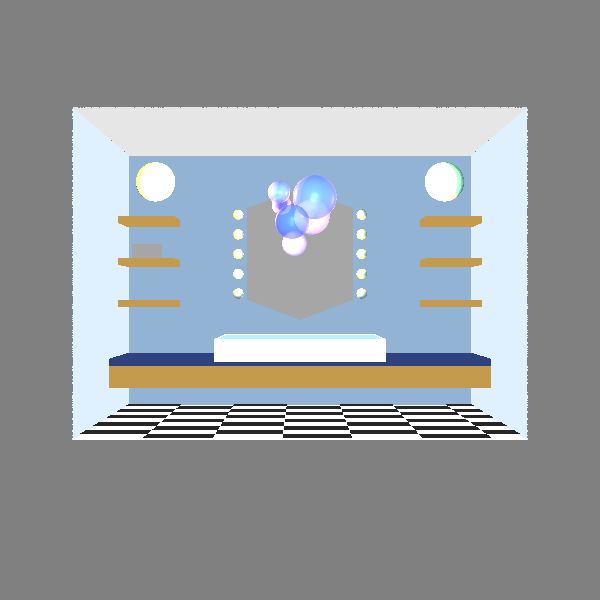
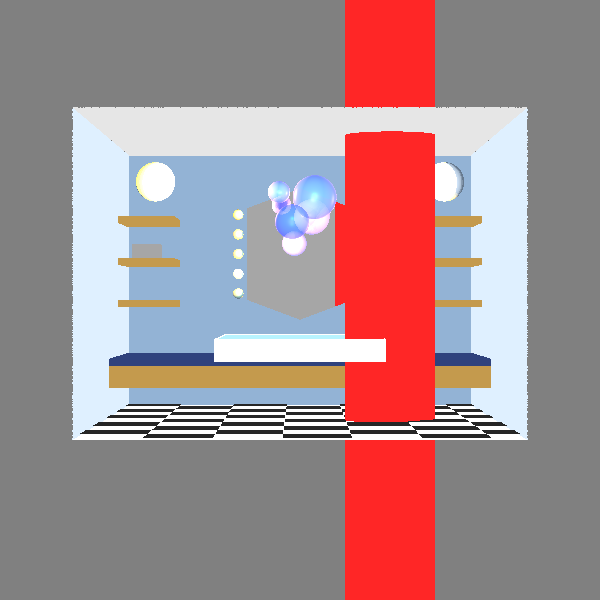
cylinder working finally

Changed region(s): [[0.54, 0.21, 0.78, 1.0], [0.57, 0.0, 0.75, 0.18]]

diff --git a/src/geometries/Tube.java b/src/geometries/Tube.java
@@ -1,64 +1,118 @@
 package geometries;
 
-import primitives.Point;
-import primitives.Ray;
-import primitives.Vector;
+import primitives.*;
 
+import java.util.ArrayList;
 import java.util.List;
 
+import static primitives.Util.alignZero;
+import static primitives.Util.isZero;
+
 /**
- * The Tube class represents an infinite cylinder (a tube) in Cartesian coordinate system.
- * It is defined by its axis ray (the ray that passes through the center of the tube) and radius.
+ * a class that represents a tube in the space by the axis of it's center. and it's radius
  */
-public class Tube extends RadialGeometry {
+public class Tube extends Geometry{
+    protected Ray axisRay;
+    protected double radius;
 
-    final protected Ray axisRay; // The axis ray of the tube
-
-    /**
-     * Constructs a tube with the specified axis ray.
-     *
-     * @param axisRay The axis ray of the tube.
-     * @param radius  The radius of the tube.
-     */
+    //region constructor ray and a radius
     public Tube(Ray axisRay, double radius) {
-        super(radius);
-        this.axisRay = axisRay; // Sets the axis ray of the tube
+        this.axisRay = axisRay;
+        this.radius = radius;
+    }
+    //endregion
+
+    //region toString Override
+    /**
+     * format: "Tube { axisRay=  Ray { p0 = Point : xyz = (x, y, z), dir = Vector : xyz = (x, y, z) }, radius= radius}"
+     */
+    @Override
+    public String toString() {
+        return "Tube{" +
+                "axisRay=" + axisRay +
+                ", radius=" + radius +
+                '}';
+    }
+    //endregion
+
+    //region getNormal function
+    @Override
+    public Vector getNormal(Point point) {
+        // projection of p0p vector on the axisRay
+        double t = axisRay.getDir().dotProduct(point.subtract(axisRay.getP0()));
+
+        Point projectionPointOfP = axisRay.getP0();
+        if (t != 0) {
+            projectionPointOfP = axisRay.getPoint(t);
+        }
+
+        return point.subtract(projectionPointOfP).normalize();
+    }
+    //endregion
+
+    //region findGeoIntersectionsHelper
+    @Override
+    public List<GeoPoint> findGeoIntersectionsHelper(Ray ray, double maxDistance) {
+        Point o = ray.getP0();
+        Vector d = ray.getDir();
+
+        // vectors that span a space with the axis ray
+        Vector local_z = axisRay.getDir().normalize();
+        Vector local_x;
+        try{
+            local_x = d.crossProduct(local_z).normalize();
+        } catch (IllegalArgumentException x){ // ray.dir == axisRay.dir
+            return null;
+        }
+        Vector local_y = local_z.crossProduct(local_x).normalize();
+
+        Vector w = o.subtract(axisRay.getP0());
+
+        // projection of o and d on all 3 spanning vectors
+        Vector o_local = new Vector(w.dotProduct(local_x), w.dotProduct(local_y), w.dotProduct(local_z));
+        Vector d_local = new Vector(d.dotProduct(local_x), d.dotProduct(local_y), d.dotProduct(local_z));
+
+        // parameters for the root formula
+        double a = d_local.getY() * d_local.getY();
+        double b = 2 * d_local.getY() * o_local.getY();
+        double c = o_local.getY() * o_local.getY() + o_local.getX() * o_local.getX() - radius * radius;
+
+
+        if (a == 0) {   // ray is parallel to axis ray - check the bases!!
+            return null;
+        }
+
+        // root parameters
+        double e = b * b - 4 * a * c;
+
+        // complex solution - what does it mean??
+        if (e < 0) {
+            return null;
+        }
+        e = Math.sqrt(e);
+
+        List<GeoPoint> pointList = new ArrayList<>();
+        double t1 = (-b - e) / (2 * a);
+        double t2 = (-b + e) / (2 * a);
+
+        if (alignZero(t1) > 0) {
+            pointList.add(new GeoPoint(this , ray.getPoint(t1)));
+        }
+        if (alignZero(t2) > 0) {
+            pointList.add(new GeoPoint(this , ray.getPoint(t2)));
+        }
+
+        if(pointList.size() == 0)
+            return null;
+        return pointList;
     }
 
-    /**
-     * Returns the axis ray of the tube.
-     *
-     * @return The axis ray of the tube.
-     */
     public Ray getAxisRay() {
         return axisRay;
     }
 
-    /**
-     * Returns the normal vector to the tube at the specified point.
-     *
-     * @param point The point on the tube to get the normal vector at.
-     * @return The normal vector to the tube at the specified point.
-     */
-    @Override
-    public Vector getNormal(Point point) {
-        Vector u = point.subtract(axisRay.getP0());
-        double t = axisRay.getDir().dotProduct(u);
-        if (t == 0)
-            return u;
-        Point o = axisRay.getP0().add(axisRay.getDir().scale(t));
-        return point.subtract(o);
+    public double getRadius() {
+        return radius;
     }
-
-    /**
-     * Finds the intersections between the tube and a given ray.
-     *
-     * @param ray         The ray to intersect with the tube.
-     * @param maxDistance The maximum distance to check for intersections.
-     * @return A list of GeoPoint objects representing the intersections between the tube and the ray.
-     */
-    @Override
-    protected List<GeoPoint> findGeoIntersectionsHelper(Ray ray, double maxDistance) {
-        return null;
-    }
+    //endregion
 }

diff --git a/src/geometries/Cylinder.java b/src/geometries/Cylinder.java
@@ -1,94 +1,67 @@
 package geometries;
 
-import primitives.Point;
 import primitives.Ray;
 import primitives.Vector;
+import primitives.Point;
 
-import java.util.ArrayList;
-import java.util.List;
-
-import static primitives.Util.alignZero;
+import static primitives.Util.*;
 
 /**
- *A class that implements a cylinder, it is a finite pipe and therefore has a height.
- * The class inherits from Tube.
+ * The Cylinder class represents a cylinder in 3D space, which is a subclass of the Tube class.
+ *
+ * @author Maayan Amar
  */
 public class Cylinder extends Tube {
+    /**
+     * The height of the cylinder.
+     */
+    private final double height;
 
     /**
-     * height of the cylinder
+     * Constructs a new cylinder with the given height, axisRay, and radius.
+     *
+     * @param height  The height of the cylinder.
+     * @param axisRay The axisRay of the cylinder.
+     * @param radius  The radius of the cylinder.
      */
-    final private double height;
+    public Cylinder(double height, Ray axisRay, double radius) {
 
-
-    /**
-     * ctr for Cylinder
-     * @param radius
-     * @param axisRay
-     * @param height
-     */
-    public Cylinder(double radius, Ray axisRay, double height) {
-        super( axisRay,radius);
+        super(axisRay, radius);
         this.height = height;
     }
 
     /**
-     * get the height of the Cylinder
-     * @return
+     * Returns the height of the cylinder.
+     *
+     * @return The height of the cylinder.
      */
     public double getHeight() {
         return height;
     }
 
 
-    // region getNormal
     @Override
     public Vector getNormal(Point point) {
-        Vector v = axisRay.getDir();
         Point p0 = axisRay.getP0();
-        Point upperPoint = p0.add(v.scale(height));
+        Vector v = axisRay.getDir();
 
-        if (point.equals(p0) || point.equals(upperPoint) || v.dotProduct(point.subtract(p0)) == 0 || v.dotProduct(point.subtract(upperPoint)) == 0)
-            return axisRay.getDir();
-        return super.getNormal(point);
-    }
+        if (point.equals(p0))
+            return v;
 
-    //endregion
+        // projection of P-p0 on the ray:
+        Vector u = point.subtract(p0);
 
-    @Override
-    public List<GeoPoint> findGeoIntersectionsHelper(Ray ray,double maxDistance) {
-        List<GeoPoint> intersections = super.findGeoIntersectionsHelper(ray,maxDistance);
+        // distance from p0 to the o who is in from of point
+        double t = alignZero(u.dotProduct(v));
 
-        List<GeoPoint> pointList = new ArrayList<>();
+        // if the point is at a base
+        if (t == 0 || isZero(height - t))
+            return v;
 
-        if(intersections != null) {
-            for (GeoPoint geoPoint : intersections) {
-                double projection = geoPoint.point.subtract(axisRay.getP0()).dotProduct(axisRay.getDir());
-                if (alignZero(projection) > 0 && alignZero(projection - this.height) < 0)
-                    pointList.add(new GeoPoint(this,geoPoint.point));
-            }
-        }
+        //the other point on the axis facing the given point
+        Point o = p0.add(v.scale(t));
 
-        // intersect with base
-        Circle base = new Circle(axisRay.getP0(), radius, axisRay.getDir());
-        intersections = base.findGeoIntersectionsHelper(ray,maxDistance);
-        if(intersections != null)
-            pointList.add(new GeoPoint(this,intersections.get(0).point));
+        return point.subtract(o).normalize();
+}
 
-        base = new Circle(axisRay.getPoint(height), radius, axisRay.getDir());
-        intersections = base.findGeoIntersectionsHelper(ray,maxDistance);
-        if(intersections != null)
-            pointList.add(new GeoPoint(this, intersections.get(0).point));
-
-        if (pointList.size() == 0)
-            return null;
-        return pointList;
-    }
-
-    @Override
-    public String toString() {
-        return "height=" + height +
-                ", axisRay=" + axisRay +
-                ", radius=" + radius ;
-    }
 }

diff --git a/unitTests/renderer/Project1.java b/unitTests/renderer/Project1.java
@@ -384,8 +384,8 @@ public class Project1 {
                 new Sphere(4, new Point(57, -400, -195))
                         .setMaterial(new Material().setKD(0.2).setKS(0.2).setNShininess(1).setKT(0.6)),
 
-//        new Cylinder(20,new Ray(new Point(-50, -200, -150),new Vector(0,0,1)),30)
-//                .setEmission(new Color(RED)),
+        new Cylinder(20,new Ray(new Point(-50, -200, -150),new Vector(0,0,1)),30)
+                .setEmission(new Color(RED)),
 
                 new Sphere(15, new Point(120, -400, -110))
                         .setMaterial(new Material().setKD(0.5).setKS(0.2).setKT(0.6)),
